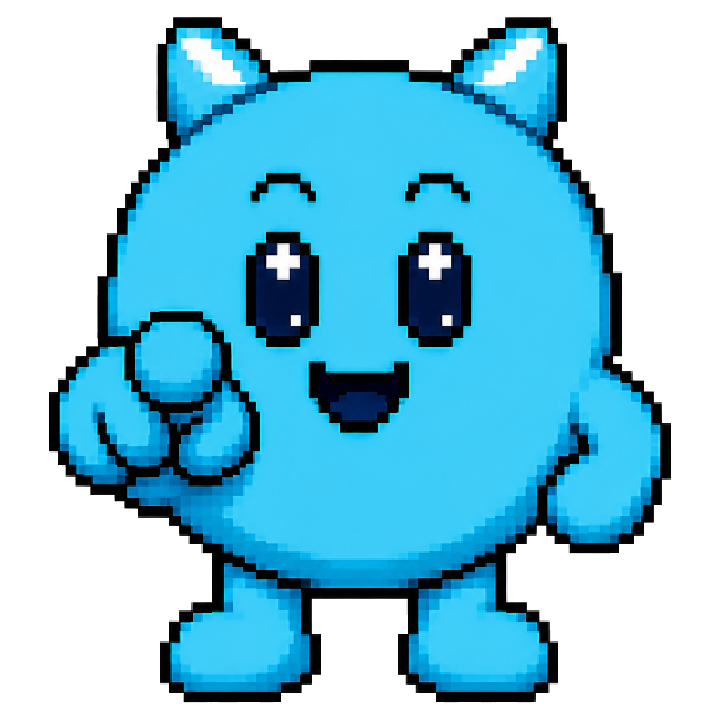
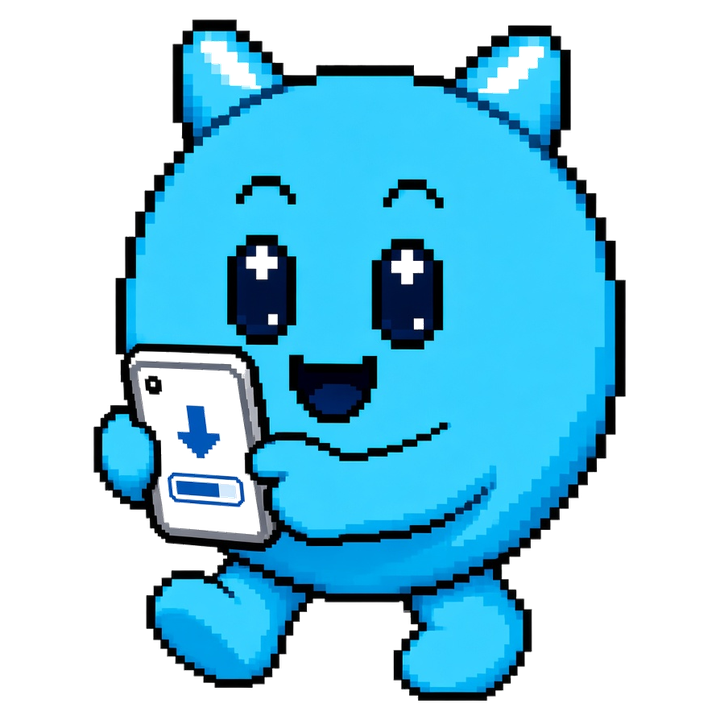
Add Tearz download-pose mascot and enlarge landing hero.

diff --git a/landing/index.html b/landing/index.html
@@ -7,8 +7,8 @@
     <meta name="description" content="Tearz" />
     <meta http-equiv="Cache-Control" content="no-cache, no-store, must-revalidate" />
     <title>Tearz</title>
-    <link rel="icon" href="./assets/icon.png?v=9" type="image/png" />
-    <link rel="stylesheet" href="./styles.css?v=9" />
+    <link rel="icon" href="./assets/icon.png?v=11" type="image/png" />
+    <link rel="stylesheet" href="./styles.css?v=11" />
   </head>
   <body>
     <header class="top">
@@ -21,7 +21,7 @@
         <div class="mascot" id="mascot">
           <img
             class="mascot-img"
-            src="./assets/tearz-mascot.png?v=9"
+            src="./assets/tearz-mascot.png?v=11"
             alt="Tearz"
             width="720"
             height="720"
@@ -38,7 +38,7 @@
 
     <footer class="credit">mintimerakhmetshin</footer>
 
-    <script src="./config.js?v=9"></script>
-    <script src="./main.js?v=9"></script>
+    <script src="./config.js?v=11"></script>
+    <script src="./main.js?v=11"></script>
   </body>
 </html>

diff --git a/server/public/android/index.html b/server/public/android/index.html
@@ -7,8 +7,8 @@
     <meta name="description" content="Tearz" />
     <meta http-equiv="Cache-Control" content="no-cache, no-store, must-revalidate" />
     <title>Tearz</title>
-    <link rel="icon" href="./assets/icon.png?v=9" type="image/png" />
-    <link rel="stylesheet" href="./styles.css?v=9" />
+    <link rel="icon" href="./assets/icon.png?v=11" type="image/png" />
+    <link rel="stylesheet" href="./styles.css?v=11" />
   </head>
   <body>
     <header class="top">
@@ -21,7 +21,7 @@
         <div class="mascot" id="mascot">
           <img
             class="mascot-img"
-            src="./assets/tearz-mascot.png?v=9"
+            src="./assets/tearz-mascot.png?v=11"
             alt="Tearz"
             width="720"
             height="720"
@@ -38,7 +38,7 @@
 
     <footer class="credit">mintimerakhmetshin</footer>
 
-    <script src="./config.js?v=9"></script>
-    <script src="./main.js?v=9"></script>
+    <script src="./config.js?v=11"></script>
+    <script src="./main.js?v=11"></script>
   </body>
 </html>

diff --git a/landing/styles.css b/landing/styles.css
@@ -77,9 +77,9 @@ body {
 }
 
 .mascot {
-  width: min(38vw, 168px);
+  width: min(62vw, 280px);
   aspect-ratio: 1;
-  margin: 0 0 28px;
+  margin: 0 0 24px;
   display: grid;
   place-items: center;
 }

diff --git a/server/public/android/styles.css b/server/public/android/styles.css
@@ -77,9 +77,9 @@ body {
 }
 
 .mascot {
-  width: min(38vw, 168px);
+  width: min(62vw, 280px);
   aspect-ratio: 1;
-  margin: 0 0 28px;
+  margin: 0 0 24px;
   display: grid;
   place-items: center;
 }
